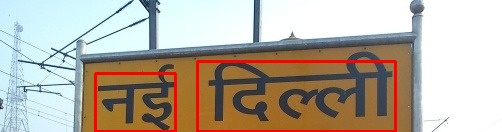
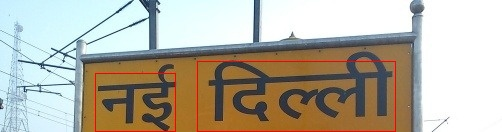
animation in app.py file

Changed region(s): [[0.3884, 0.4545, 0.8068, 1.0], [0.1793, 0.5455, 0.3586, 1.0]]

diff --git a/static/css/style.css b/static/css/style.css
@@ -126,6 +126,7 @@ div footer .processbutton:active {
   left: 40%;
   background-color: transparent;
   display: none;
+  animation: scaleanimation 2s infinite alternate;
 }
 .loading h1 {
   padding: 10%;
@@ -134,4 +135,29 @@ div footer .processbutton:active {
   border-radius: 30px;
   font-size: 300%;
   border: 3px solid blueviolet;
+  animation: scaleanimation 0.8s infinite alternate;
+}
+
+@keyframes scaleanimation {
+  0% {
+    transform: scale(1);
+  }
+  100% {
+    transform: scale(1.2);
+  }
+}
+.preimg {
+  background-color: transparent;
+}
+.preimg img {
+  transition: transform 0.2s;
+  background-color: transparent;
+}
+
+.preimg img:hover {
+  transform: scale(1.2);
+}
+
+.preimg img:active {
+  transform: scale(0.95);
 }

diff --git a/templates/resultpage.html b/templates/resultpage.html
@@ -26,9 +26,9 @@
         alt="Detected"
         style="
           margin-top: 20%;
-          margin-left: 20%;
-          height: 200%;
-          width: 200%;
+          margin-left: 40%;
+          height: 300px;
+          width: 400px;
           padding: auto;
         "
       />
@@ -39,8 +39,8 @@
         style="
           margin-top: 20%;
           margin-left: 10%;
-          height: 200%;
-          width: 200%;
+          height: 300px;
+          width: 400px;
           padding: auto;
         "
       />

diff --git a/templates/home.html b/templates/home.html
@@ -43,6 +43,7 @@
     <footer>
       <div
         id="preimg"
+        class="preimg"
         style="
           display: flex;
           flex-direction: row;

diff --git a/app.py b/app.py
@@ -75,7 +75,7 @@ def get_image(imagepath):
                 int(i["bounding_box"]["h"]),
             ),
             color=(0, 0, 255),
-            thickness=2,
+            thickness=1,
         )
         label = i['label']
         wordparams.append([label,i["bounding_box"]["x"],i["bounding_box"]["y"]])
